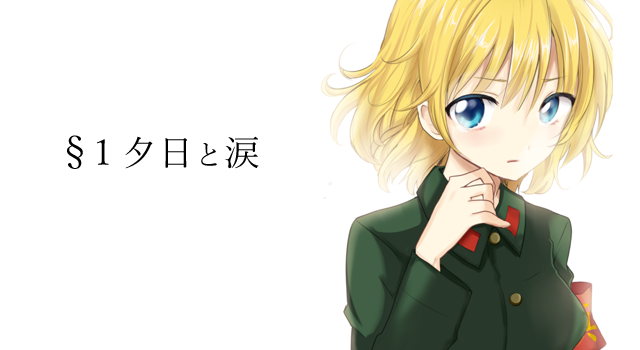
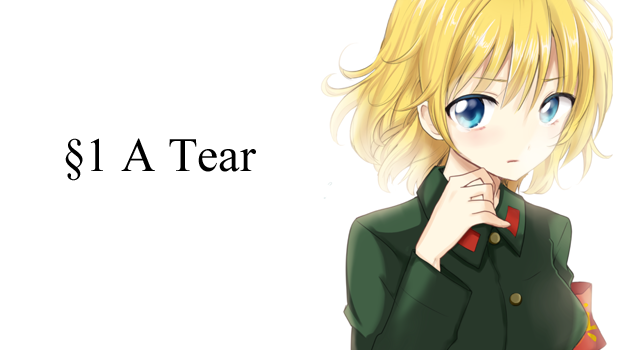
§1のタイトルを変更

Changed region(s): [[0.0938, 0.3714, 0.4062, 0.5143]]

diff --git a/metastable3/2-05.html b/metastable3/2-05.html
@@ -52,6 +52,10 @@
 「考える。考えるよ……その内……」
 「もう！　そんなんじゃいつまでたっても決められないよ！」
 　あははという笑い声が教室に小さく響いた。
+　ただ単に結果として上手く行っただけかもしれない。新田さんの親にたまたま理解があったからこそ官女はこうして笑えているだけかもしれない。
+ だが、それでもいいじゃないか。
+　新田さんの笑顔にはそう思えるだけの暖かさがあった。
+
 </div>
 
     <div id="footer" v-component="metastable-page-footer"></div>

diff --git a/metastable3/config.js b/metastable3/config.js
@@ -34,7 +34,7 @@ METASTABLECFG.chapters = [
                     },
                     {
                       sectPrefix: "§1",
-                      title: "　夕日と涙",
+                      title: "　A Tear",
                       id: "1-01",
                       sections:
                         [
